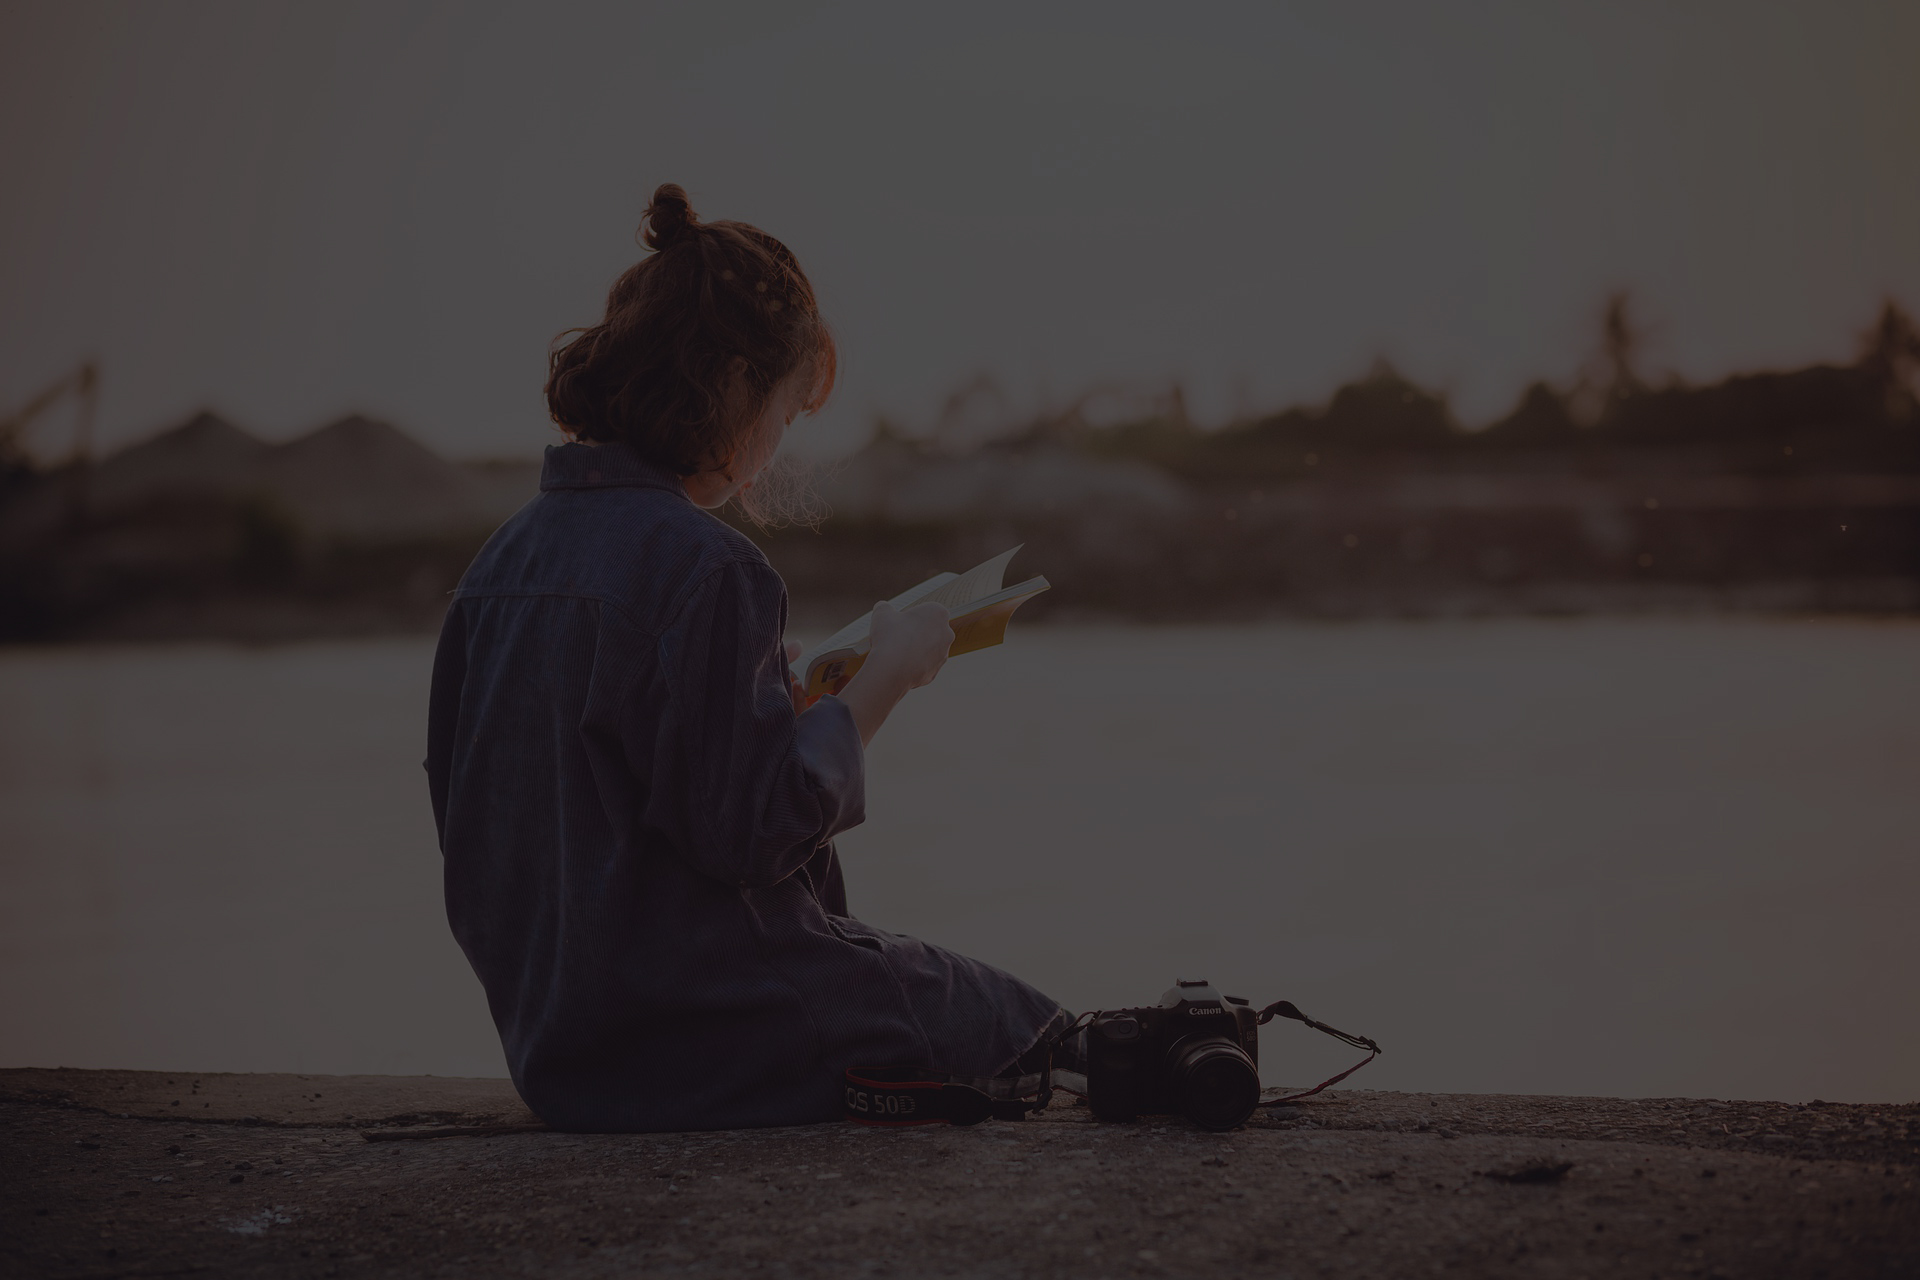
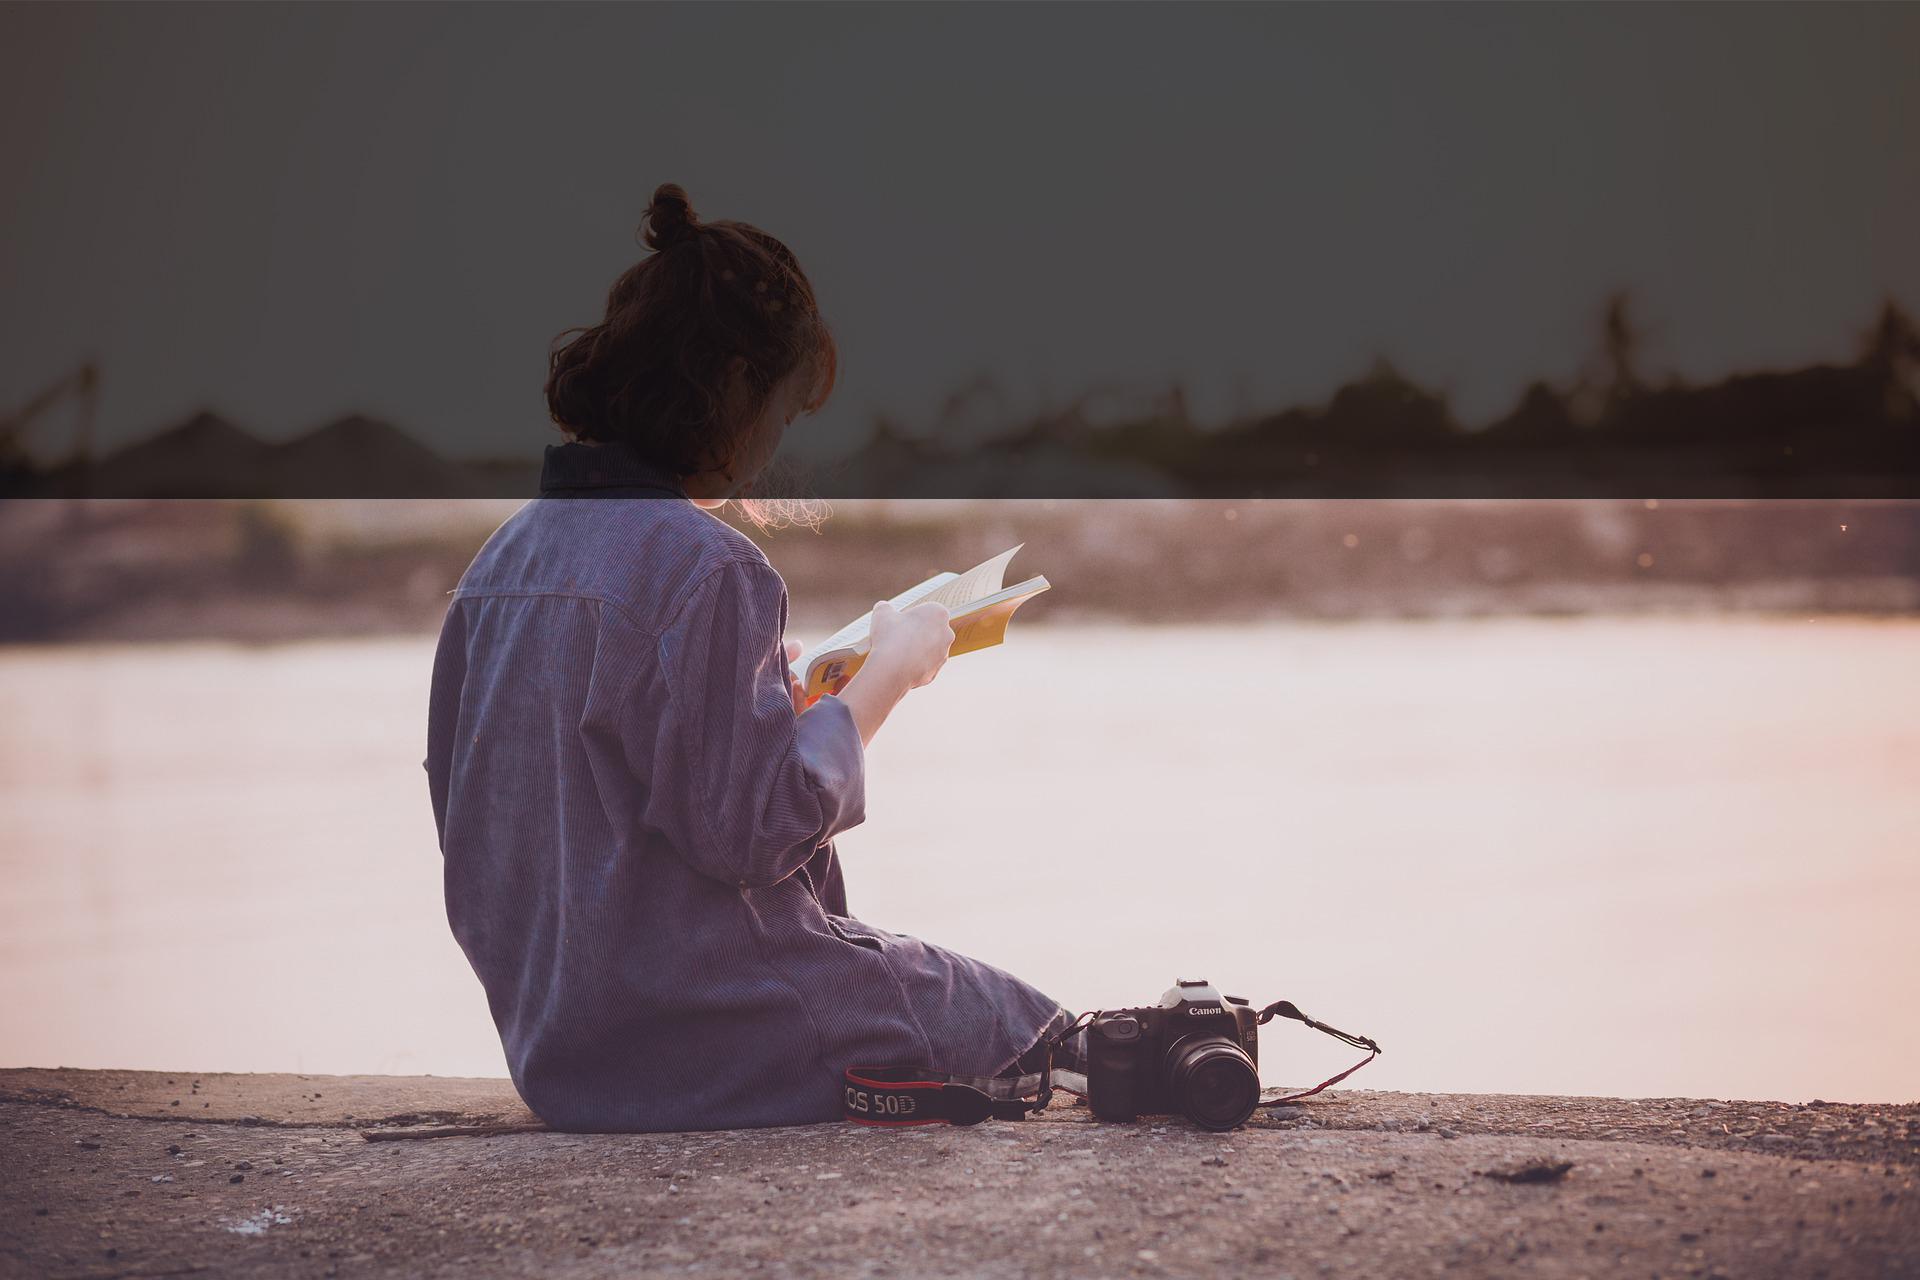
views and css update

diff --git a/public/css/styles.css b/public/css/styles.css
@@ -173,7 +173,7 @@ form,
 }
 
 .main-footer a{
-  background-color: black;
+  margin: 5px;
   color: white;
   text-decoration: none;
   font-size: 30x;
@@ -191,15 +191,15 @@ form,
   margin: -400px;
   padding: 5px;
   position: relative;
-  background-color: black;
-  color: rgb(17, 17, 17);
   font-size: 20x;
+  color: white;
   width: 100vw;
-  height: 100px;
+  height: 115px;
 }
 
 .browse-footer a{
-  background-color: black;
+  margin: 5px;
+  padding: 5px;
   color: white;
   text-decoration: none;
   font-size: 30x;
@@ -290,9 +290,11 @@ form,
   align-content: center;
   margin: 0 auto;
   width: 800px;
+  
 }
 
 .profile-banner {
+  
   background-image: url(/images/reading01.jpg);
   height: 500px;
   background-size: cover;
@@ -313,10 +315,11 @@ form,
   
 .profile-card {
     max-width: 100vw;
+    margin-left: 80px;
 }
 
 .card-body {
-  background-color: white;
+  background-color: rgba(255, 255, 255, 0.788);
 }
 
 .edit-profile {
@@ -330,11 +333,12 @@ form,
   background-color: rgb(209, 71, 71);
   height: 60px;
   color: white;
+
 }
 
 .profile-design h4{
-  margin-left: 5px;
-  margin-top: 10px;
+  margin-left: 15px;
+  padding: 10px;
 }
 
 /* XXXXXXXXXXXXXXXXXXXXXXXXXXXXXXXXXXXXXXXXXXXXXXXXXXXXXXXXXXXXXXXXXXXXXXXXXXXXXXXXXXX */
@@ -459,6 +463,7 @@ form,
     justify-content: center;
     align-content: center;
     max-width: 60%;
+    background-color: rgba(0, 0, 0, 0.671);
 
 }
 
@@ -575,18 +580,20 @@ font-size: 25px;
 .wantToRead-btn {
   box-shadow: 10px 5px 5px rgba(15, 15, 15, 0.438);
   margin: 5px;
+  width: max-content;
+  height: max-content;
 }
 /* XXXXXXXXXXXXXXXXXXXXXXXXXXXXXXXXXXXXXXXXXXXXXXXXXXXXXXXXXXXXXXXXXXXXXXXXXXXXXXXXXXX */
 /* REVIEW CARDS */
 
-.new-review-card-container {
-  background-color: white;
-  margin: 85px;
+.main-review-card {
+  
+  background-color: rgba(255, 255, 255, 0.767);
+  margin: 15px;
   padding: 25px;
   display: flex;
   flex-wrap: wrap;
-  justify-content: flex-start;
-  width: 2000px;
+  border-radius: 15px;
 }
 
 .new-review-card {
@@ -596,6 +603,7 @@ font-size: 25px;
   flex-wrap: wrap;
   height: fit-content;
   width: max-content;
+  flex-direction: column;
   box-shadow: inset 0 -3em 3em rgba(0,0,0,0.1),
   0 0  0 2px rgb(255,255,255),
   0.3em 0.3em 1em rgba(0,0,0,0.3);
@@ -610,8 +618,8 @@ font-size: 25px;
 .new-review-card h5 {
 margin: 5px;
 display: flex;
-justify-content: center;
-align-content: center;
+flex-wrap: wrap;
+
 text-align: center;
 font-size: 25px;
 }
@@ -633,7 +641,7 @@ font-size: 25px;
   border-radius: calc(0.18rem - 1px) calc(0.18rem - 1px) 0 0;
 }
 
-.new-review-card img {
+.new-review-card-img-top {
   margin: 0 auto;
   margin-top: 20px;
   margin-bottom: 5px;
